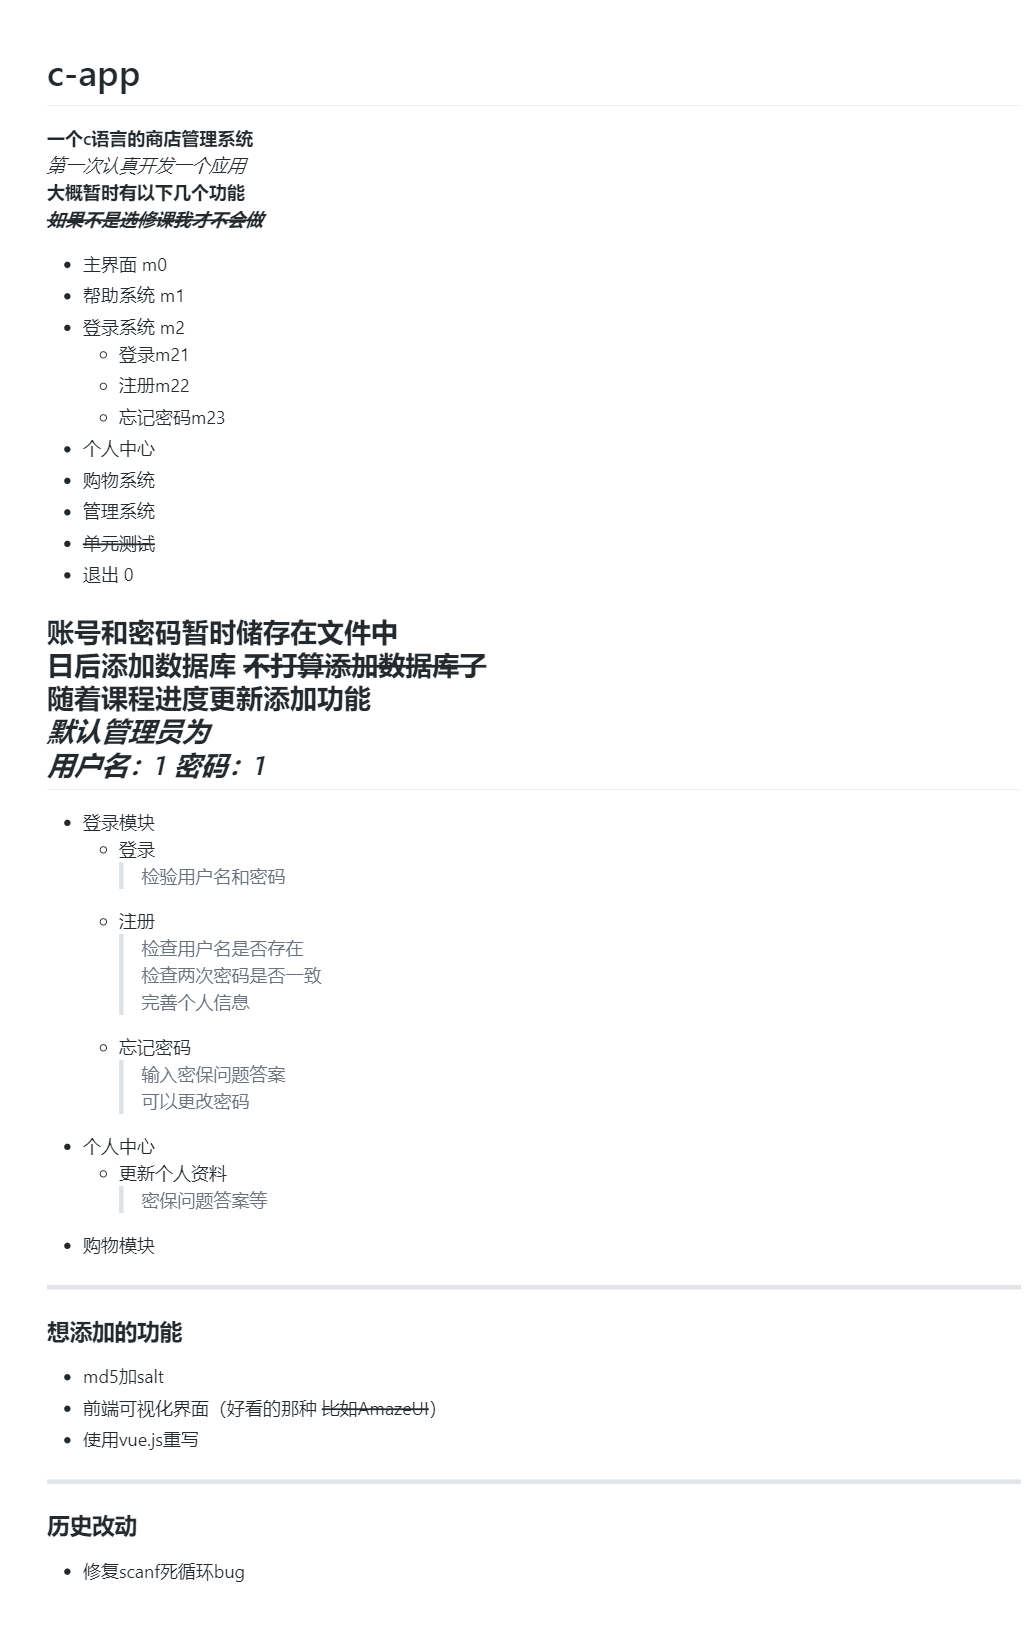
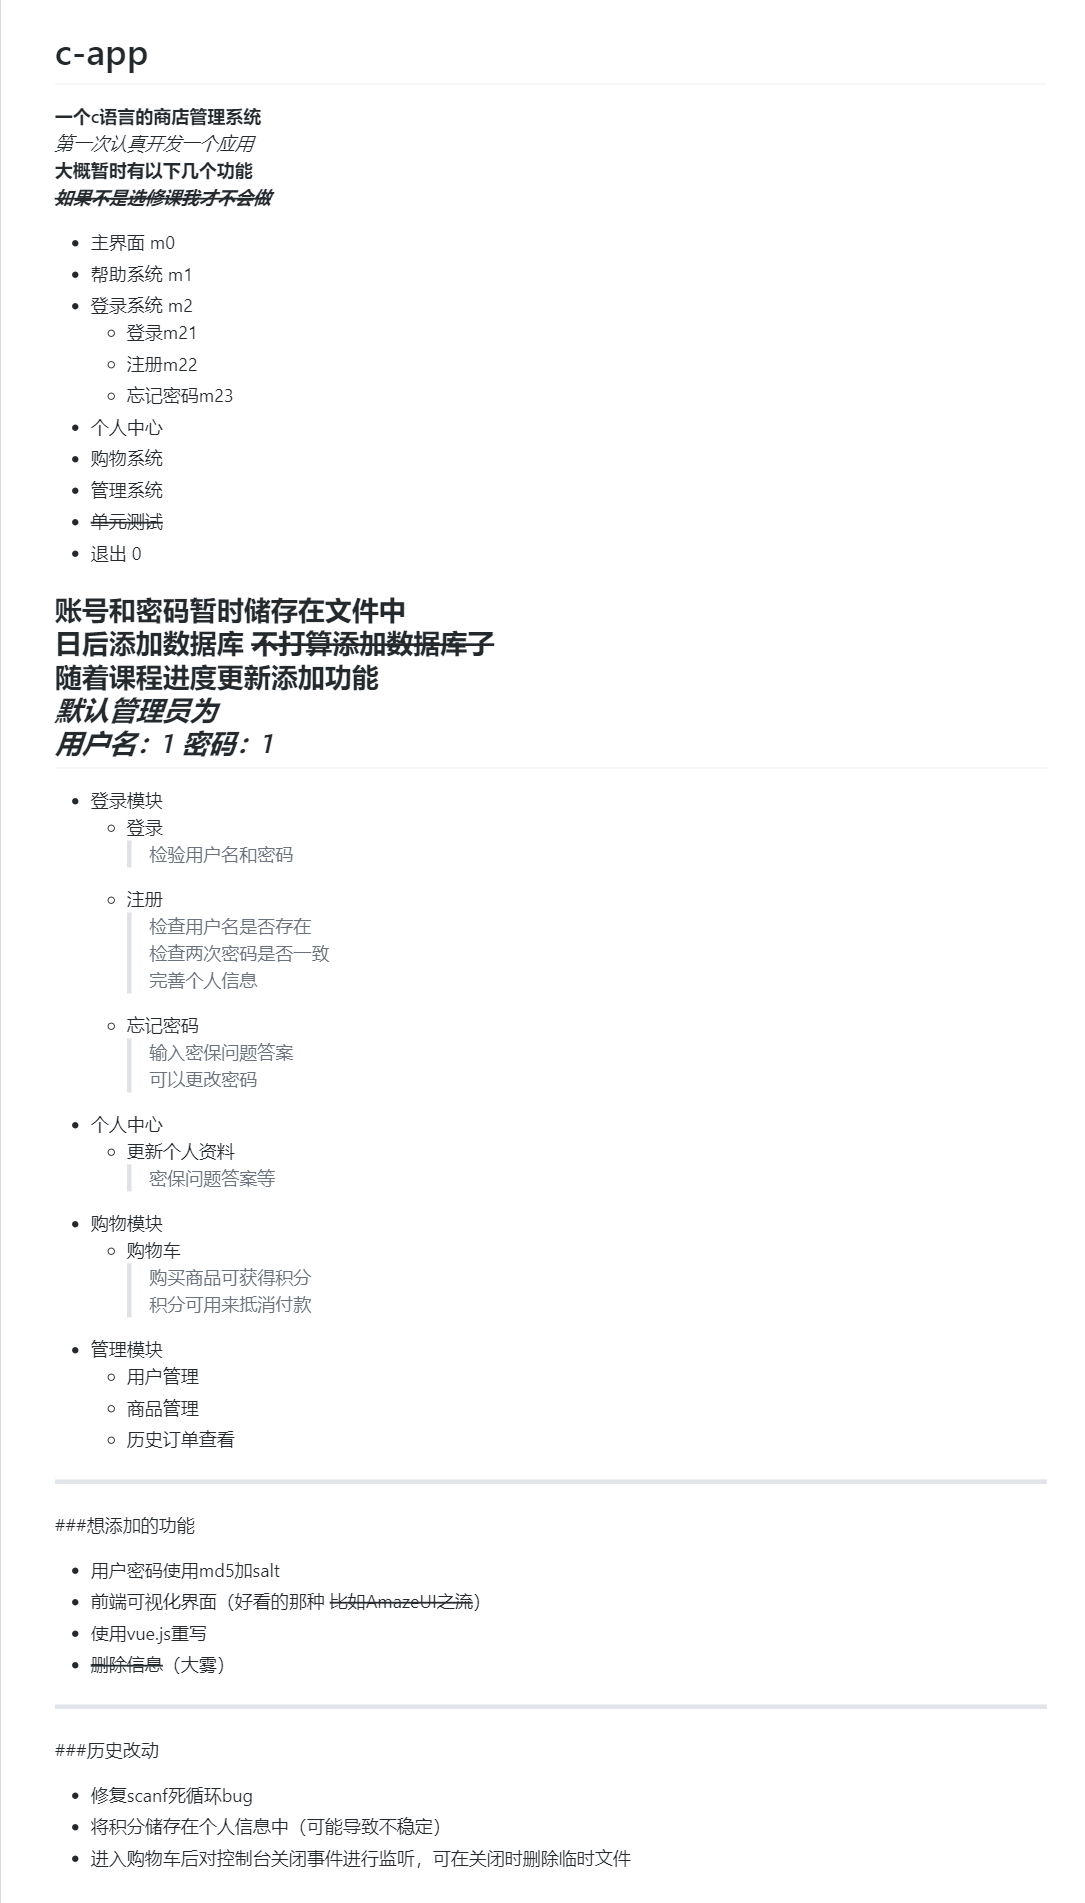
管理员账户与数据库分离 删除商品及用户

Changed region(s): [[0.031, 0.0, 0.4647, 1.0], [0.4027, 0.9688, 0.5576, 1.0]]

diff --git a/src/2/m2.c b/src/2/m2.c
@@ -42,7 +42,6 @@ int m2_call_back(int cmd) {
             break;
         default:
             break;
-
     }
     return cmd;
 }

diff --git a/README.md b/README.md
@@ -53,3 +53,4 @@
 + 修复scanf死循环bug
 + 将积分储存在个人信息中（可能导致不稳定）
 + 进入购物车后对控制台关闭事件进行监听，可在关闭时删除临时文件
++ 修复删除商品的bug。。。
